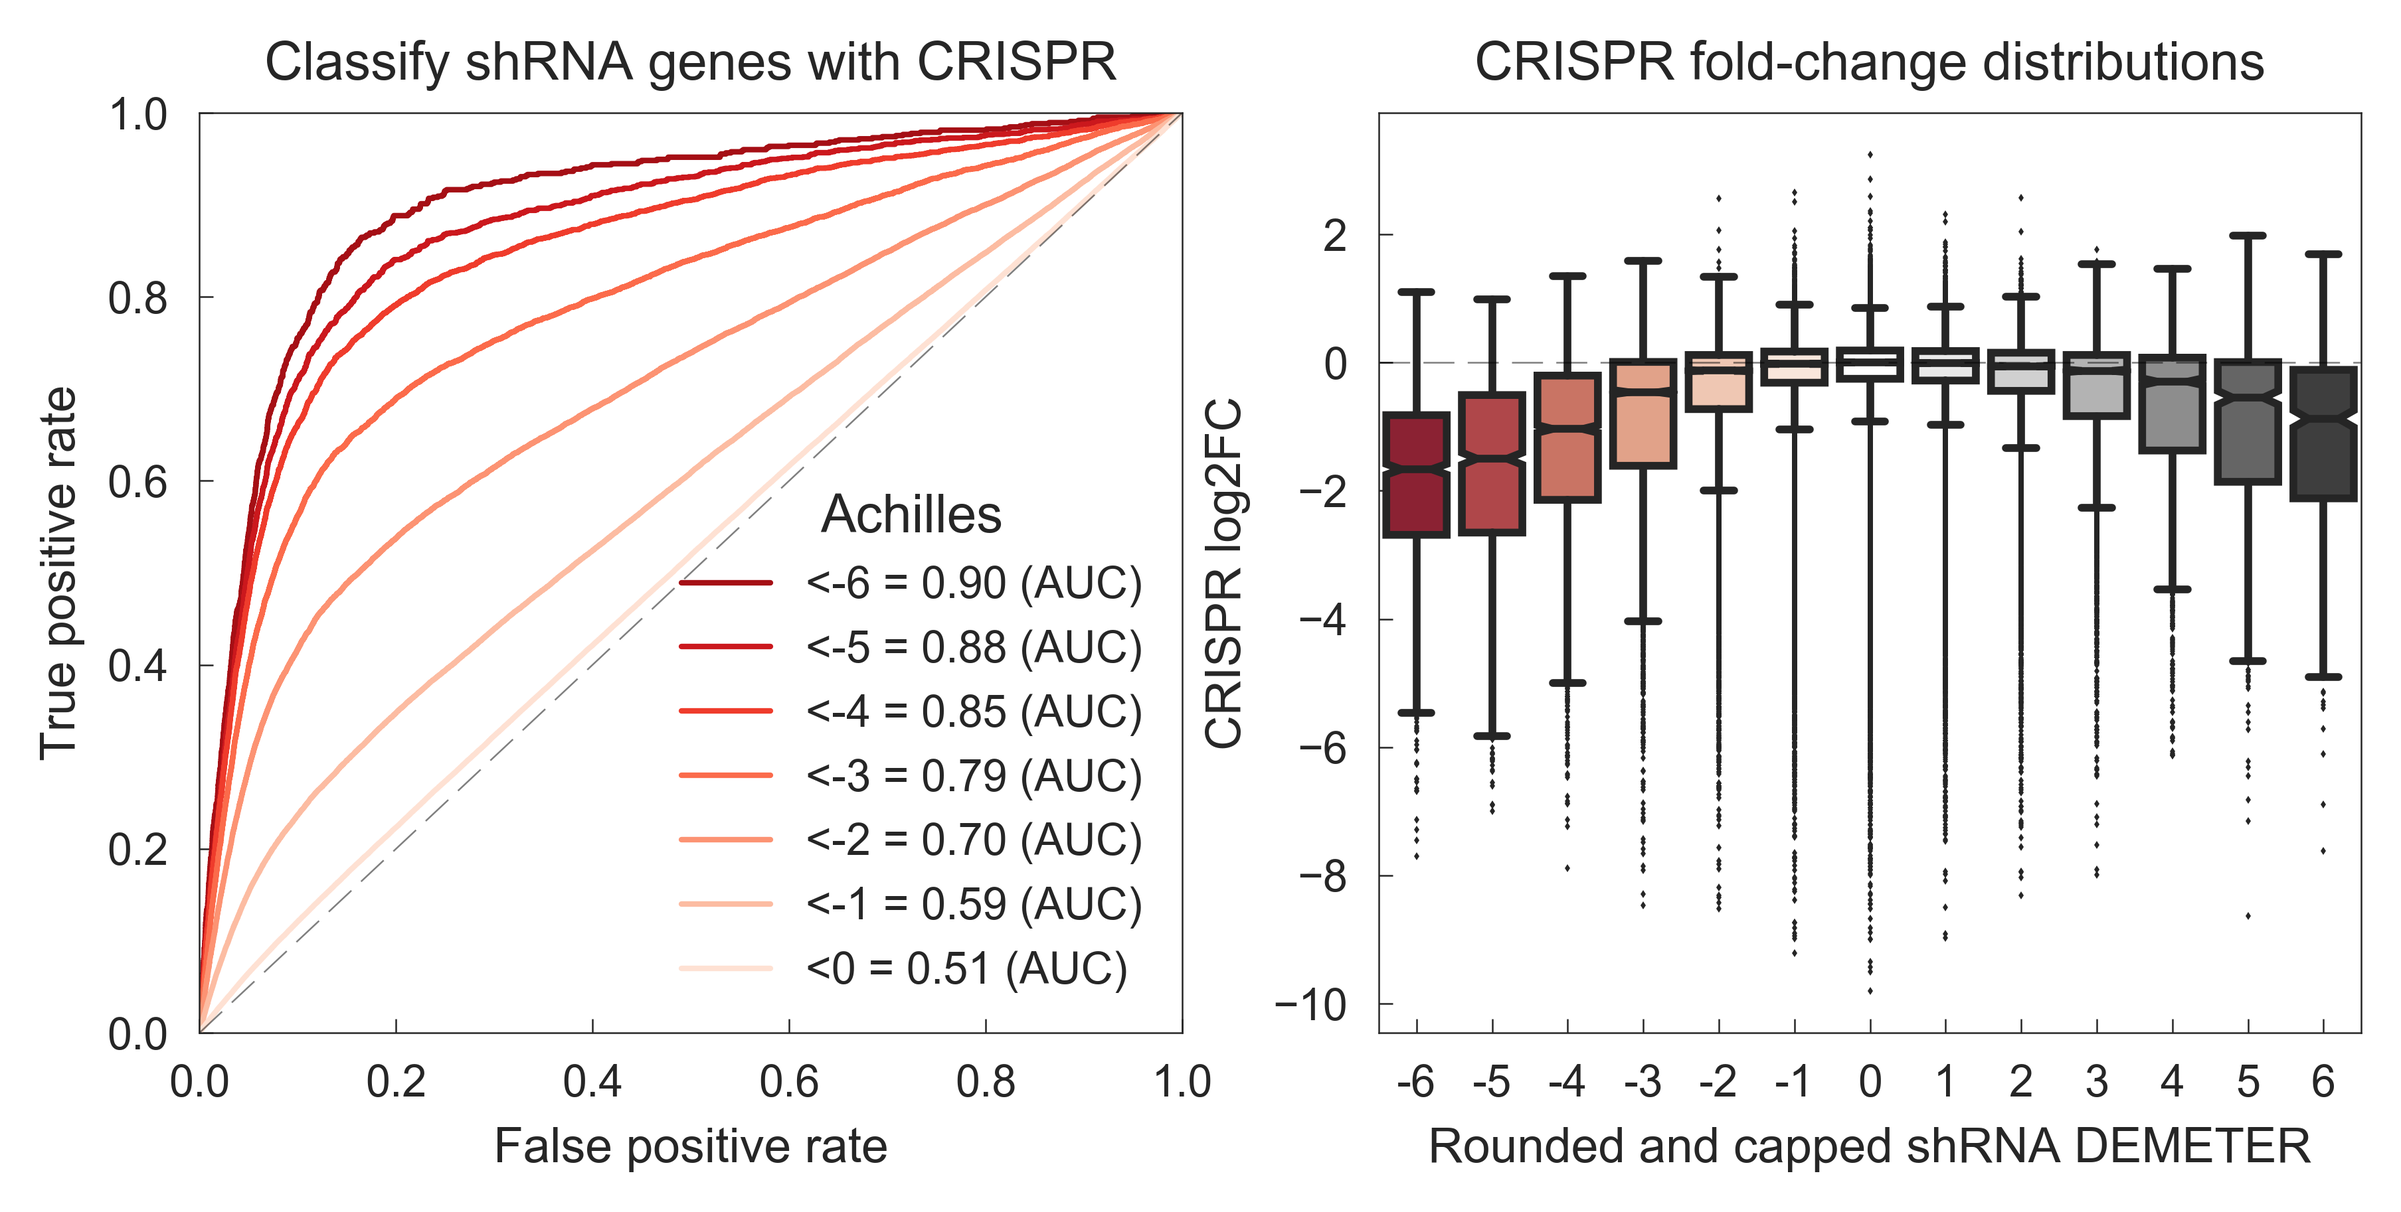
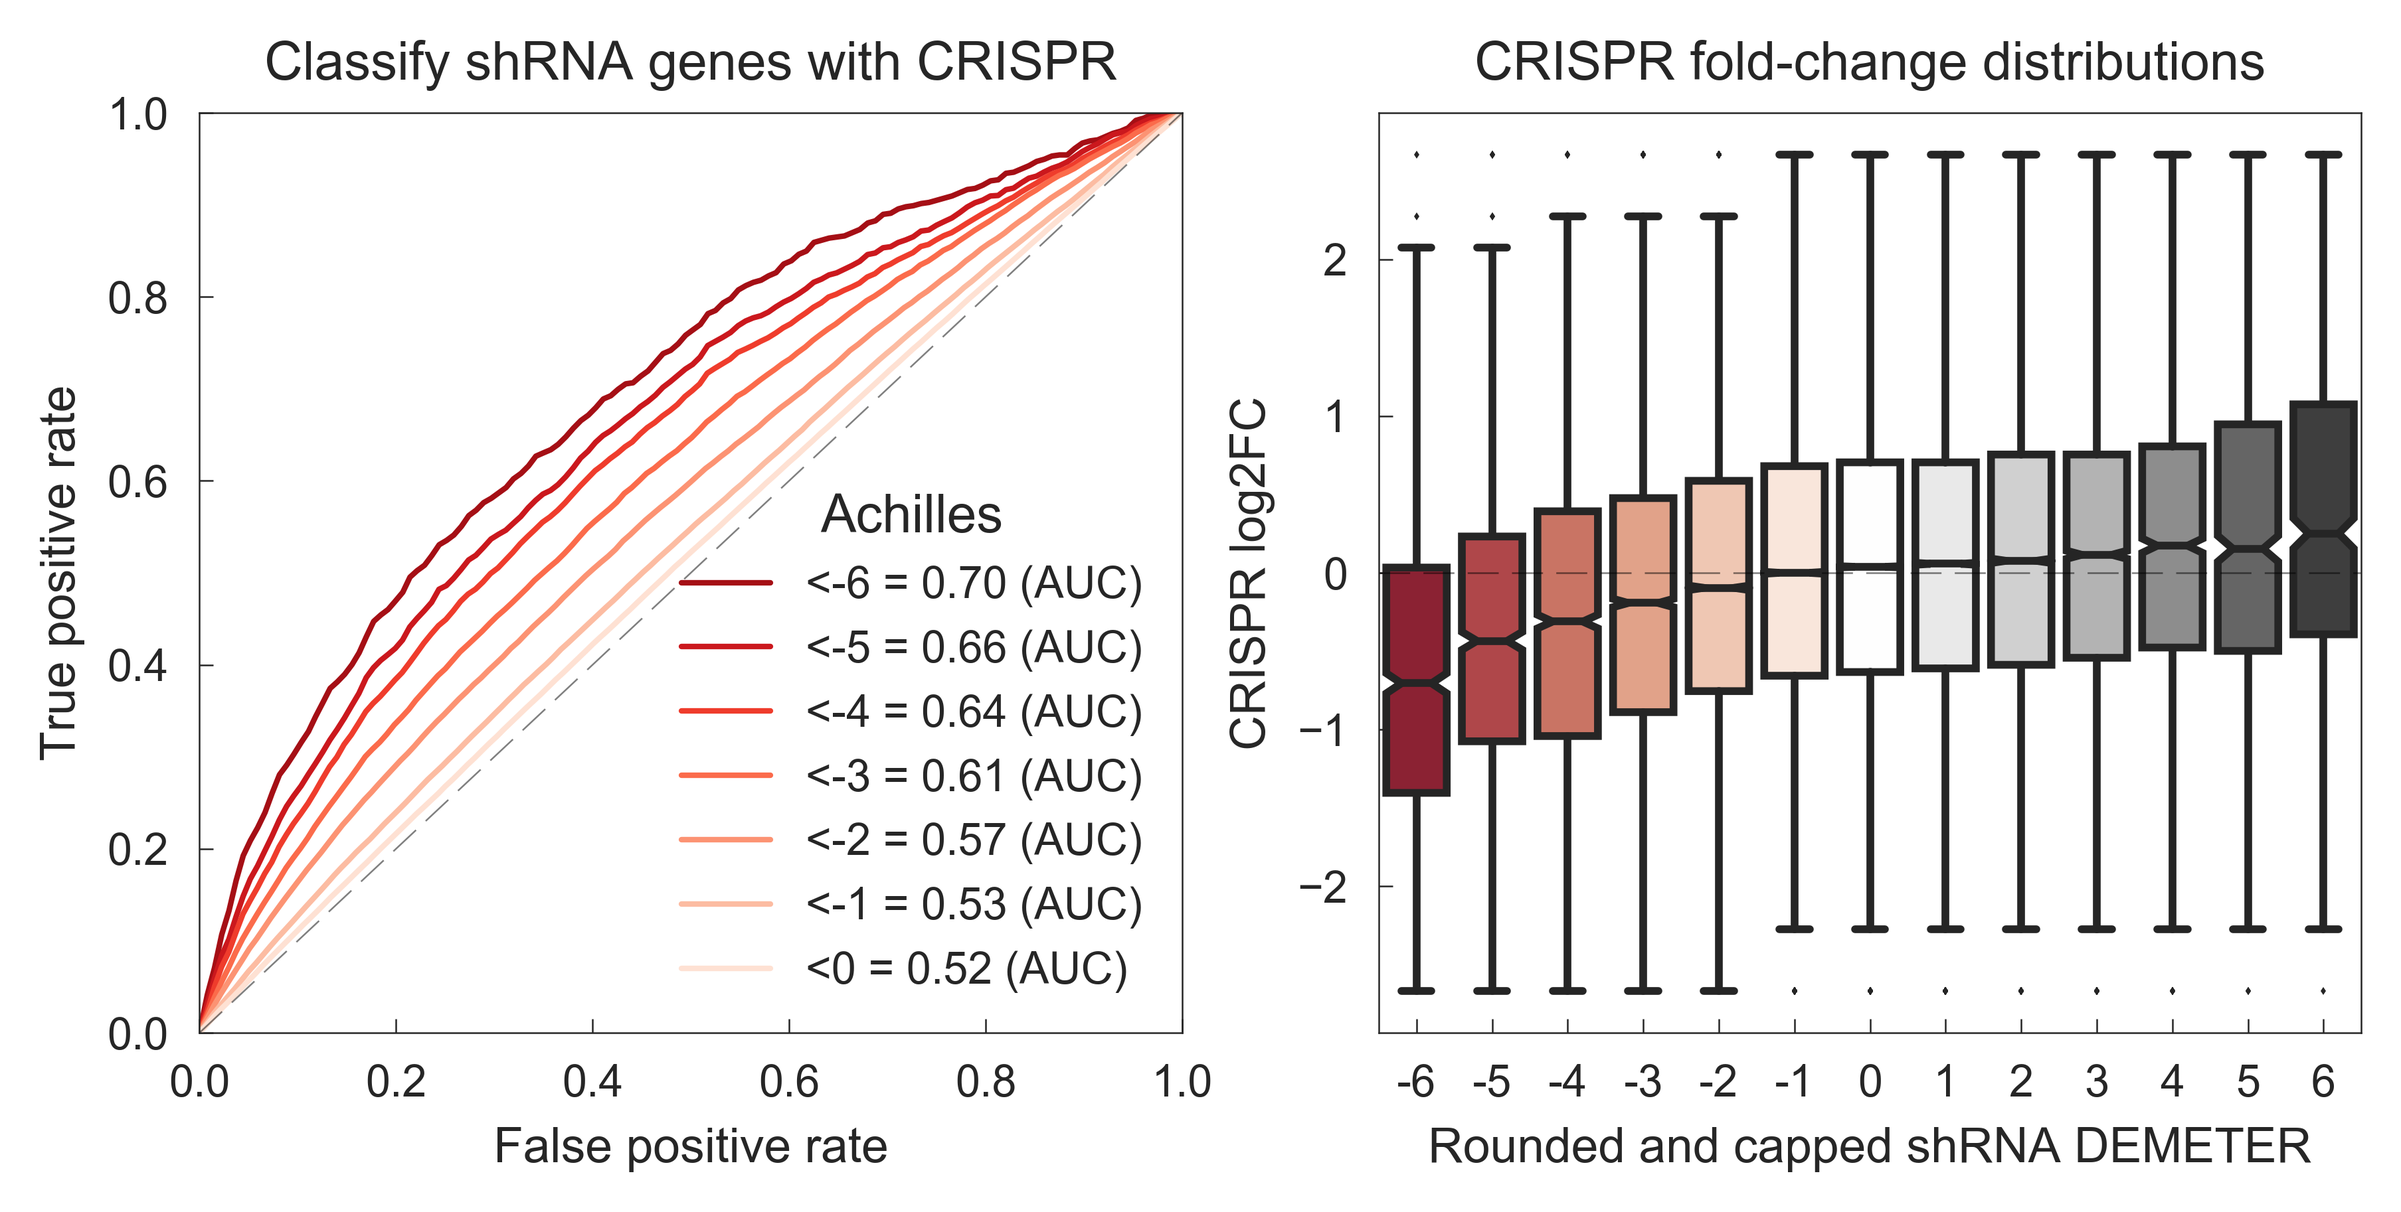
shRNA comparison benchmark performed

diff --git a/src/shrna_corr.py b/src/shrna_corr.py
@@ -5,10 +5,13 @@ import numpy as np
 import pandas as pd
 import seaborn as sns
 import matplotlib.pyplot as plt
-from scipy.stats.stats import pearsonr
+from scipy.stats.stats import pearsonr, zscore
 from sklearn.metrics import roc_curve, auc
-from matplotlib.gridspec import GridSpec
+from limix_core.util.preprocess import gaussianize
 
+
+# - Essential genes
+essential = list(pd.read_csv('data/resources/curated_BAGEL_essential.csv', sep='\t')['gene'])
 
 # - CCLE and GDSC overlapping
 cmap = pd.read_csv('data/ccle/CCLE_GDSC_cellLineMappoing.csv', index_col=2)
@@ -27,9 +30,56 @@ d_achilles = pd.read_csv('data/ccle/Achilles_v2.20.2_GeneSolutions.txt', sep='\t
 print('Project Achilles: ', d_achilles.shape)
 
 # - CRISPR
+# GDSC
 crispr = pd.read_csv('data/gdsc/crispr/crispy_fold_change.csv', index_col=0)
 crispr = crispr.groupby([i.split('_')[0].replace('sg', '') for i in crispr.index]).mean()
+
+crispr_n = crispr.groupby([i.split('_')[0].replace('sg', '') for i in crispr.index]).mean()
+crispr_n = pd.DataFrame(gaussianize(crispr_n.values.T).T, index=crispr_n.index, columns=crispr_n.columns)
+
+# crispr = pd.DataFrame(gaussianize(crispr.values.T).T, index=crispr.index, columns=crispr.columns)
+
+# crispr = pd.read_csv('data/gdsc/crispr/all_GLCFC.csv', index_col=0)
+# crispr = (crispr - crispr.unstack().mean()) / crispr.unstack().std()
+
+# crispr = pd.read_csv('data/gdsc/crispr/deseq_gene_fold_changes_mean.csv', index_col=0)
+# crispr = pd.DataFrame(gaussianize(crispr.values), index=crispr.index, columns=crispr.columns)
 print('CRISPR: ', crispr.shape)
+
+# Achilles
+c_achilles = pd.read_csv('data/ccle/Achilles_v3.3.8_genesoln.gct', sep='\t', index_col=0).drop('Description', axis=1)
+
+g_counts = pd.Series(dict(zip(*(np.unique([i.split('_')[0] for i in c_achilles.index], return_counts=True))))).sort_values()
+
+c_achilles = c_achilles[[g_counts.loc[i.split('_')[0]] == 1 for i in c_achilles.index]]
+c_achilles.index = [i.split('_')[0] for i in c_achilles.index]
+
+# c_achilles = pd.DataFrame(gaussianize(c_achilles.values), index=c_achilles.index, columns=c_achilles.columns)
+
+# c_achilles = pd.read_csv('data/ccle/Achilles_v3.3.8a.gct', sep='\t', index_col=0).drop('Description', axis=1)
+# c_achilles = pd.DataFrame(zscore(c_achilles), index=c_achilles.index, columns=c_achilles.columns)
+# c_achilles = c_achilles.groupby([i.split('_')[1] for i in c_achilles.index]).median()
+# c_achilles = pd.DataFrame(zscore(c_achilles.T).T, index=c_achilles.index, columns=c_achilles.columns)
+# c_achilles = pd.DataFrame(gaussianize(c_achilles.values), index=c_achilles.index, columns=c_achilles.columns)
+
+# c_achilles = pd.read_csv('data/ccle/Achilles_v3.3.8.gct', sep='\t', index_col=0).drop('Description', axis=1)
+# c_achilles = c_achilles.groupby([i.split('_')[1] for i in c_achilles.index]).median()
+
+
+# - Gene essential Achilles AROC
+samples = set([idx for idx, val in cmap['GDSC1000 name'].iteritems() if val in crispr.columns]).intersection(d_achilles)
+genes = set(crispr.index).intersection(d_achilles.index)
+print('Overlap: ', len(genes), len(samples))
+
+plot_df = pd.DataFrame({
+    'CRISPR': crispr.loc[genes, cmap.loc[samples, 'GDSC1000 name']].unstack(),
+    'CRISPR_n': crispr_n.loc[genes, cmap.loc[samples, 'GDSC1000 name']].unstack(),
+    'shRNA': d_achilles.loc[genes, samples].rename(columns=cmap.loc[samples, 'GDSC1000 name'].to_dict()).unstack()
+}).dropna()
+plot_df['shRNA_int'] = [round(i, 0) for i in plot_df['shRNA']]
+plot_df['shRNA_int'] = plot_df['shRNA_int'].clip(-6, 6).astype(int)
+plot_df['essential'] = [int(i in essential) for _, i in plot_df.index]
+print(plot_df.query('shRNA_int == 6').sort_values('CRISPR'))
 
 
 # - Overlap
@@ -97,6 +147,7 @@ plt.savefig('reports/shrna_crispr_corr_hist.png', bbox_inches='tight', dpi=600)
 plt.close('all')
 
 
+
 # - Gene essential Achilles AROC
 samples = set([idx for idx, val in cmap['GDSC1000 name'].iteritems() if val in crispr.columns]).intersection(d_achilles)
 genes = set(crispr.index).intersection(d_achilles.index)
@@ -143,14 +194,152 @@ plt.savefig('reports/shrna_crispr_achilles_agreement.png', bbox_inches='tight', 
 plt.close('all')
 
 
-# - Gene essential DRIVE AROC
-samples = set([idx for idx, val in cmap['GDSC1000 name'].iteritems() if val in crispr.columns]).intersection(d_drive_rsa)
-genes = set(crispr.index).intersection(d_drive_rsa.index)
+# # - Gene essential DRIVE AROC
+# samples = set([idx for idx, val in cmap['GDSC1000 name'].iteritems() if val in crispr.columns]).intersection(d_drive_rsa)
+# genes = set(crispr.index).intersection(d_drive_rsa.index)
+# print('Overlap: ', len(genes), len(samples))
+#
+# plot_df = pd.DataFrame({
+#     'CRISPR': crispr.loc[genes, cmap.loc[samples, 'GDSC1000 name']].unstack(),
+#     'shRNA': d_drive_rsa.loc[genes, samples].rename(columns=cmap.loc[samples, 'GDSC1000 name'].to_dict()).unstack()
+# }).dropna()
+# plot_df['shRNA_int'] = [round(i, 0) for i in plot_df['shRNA']]
+# plot_df['shRNA_int'] = plot_df['shRNA_int'].clip(-6, 6).astype(int)
+#
+# # Plot
+# sns.set(style='ticks', context='paper', rc={'axes.linewidth': .3, 'xtick.major.width': .3, 'ytick.major.width': .3, 'xtick.major.size': 2.5, 'ytick.major.size': 2.5, 'xtick.direction': 'in', 'ytick.direction': 'in'})
+# f, axs = plt.subplots(1, 2)
+#
+# # AROCs
+# ax = axs[0]
+#
+# thresholds = np.arange(-6, 0)
+# for c, thres in zip(sns.color_palette('Reds_r', len(thresholds)), thresholds):
+#     fpr, tpr, _ = roc_curve((plot_df['shRNA'] < thres).astype(int), -plot_df['CRISPR'])
+#     ax.plot(fpr, tpr, label='<%d = %.2f (AUC)' % (thres, auc(fpr, tpr)), lw=1., c=c)
+#
+# ax.plot((0, 1), (0, 1), 'k--', lw=.3, alpha=.5)
+# ax.set_xlim(0, 1)
+# ax.set_ylim(0, 1)
+# ax.set_xlabel('False positive rate')
+# ax.set_ylabel('True positive rate')
+# ax.set_title('Classify shRNA genes with CRISPR')
+# ax.legend(loc=4, title='DRIVE')
+#
+# # Boxplots
+# ax = axs[1]
+#
+# sns.boxplot('shRNA_int', 'CRISPR', data=plot_df, fliersize=1, palette='Reds_r', notch=True)
+# ax.axhline(0, ls='--', lw=.3, alpha=.5, c='black')
+# ax.set_xlabel('Rounded and capped shRNA RSA')
+# ax.set_ylabel('CRISPR log2FC')
+# ax.set_title('CRISPR fold-change distributions')
+#
+# plt.gcf().set_size_inches(7, 3)
+# plt.savefig('reports/shrna_crispr_drive_agreement.png', bbox_inches='tight', dpi=600)
+# plt.close('all')
+#
+#
+# # - Gene essential DRIVE AROC
+# samples = set([idx for idx, val in cmap['GDSC1000 name'].iteritems() if val in crispr.columns]).intersection(d_drive)
+# genes = set(crispr.index).intersection(d_drive.index)
+# print('Overlap: ', len(genes), len(samples))
+#
+# plot_df = pd.DataFrame({
+#     'CRISPR': crispr.loc[genes, cmap.loc[samples, 'GDSC1000 name']].unstack(),
+#     'shRNA': d_drive.loc[genes, samples].rename(columns=cmap.loc[samples, 'GDSC1000 name'].to_dict()).unstack()
+# }).dropna()
+# plot_df['shRNA_int'] = [round(i, 0) for i in plot_df['shRNA']]
+# plot_df['shRNA_int'] = plot_df['shRNA_int'].clip(-3, 3).astype(int)
+#
+# # Plot
+# sns.set(style='ticks', context='paper', rc={'axes.linewidth': .3, 'xtick.major.width': .3, 'ytick.major.width': .3, 'xtick.major.size': 2.5, 'ytick.major.size': 2.5, 'xtick.direction': 'in', 'ytick.direction': 'in'})
+# f, axs = plt.subplots(1, 2)
+#
+# # AROCs
+# ax = axs[0]
+#
+# thresholds = np.arange(-3, 0)
+# for c, thres in zip(sns.color_palette('Reds_r', len(thresholds)), thresholds):
+#     fpr, tpr, _ = roc_curve((plot_df['shRNA'] < thres).astype(int), -plot_df['CRISPR'])
+#     ax.plot(fpr, tpr, label='<%d = %.2f (AUC)' % (thres, auc(fpr, tpr)), lw=1., c=c)
+#
+# ax.plot((0, 1), (0, 1), 'k--', lw=.3, alpha=.5)
+# ax.set_xlim(0, 1)
+# ax.set_ylim(0, 1)
+# ax.set_xlabel('False positive rate')
+# ax.set_ylabel('True positive rate')
+# ax.set_title('Classify shRNA genes with CRISPR')
+# ax.legend(loc=4, title='DRIVE')
+#
+# # Boxplots
+# ax = axs[1]
+#
+# sns.boxplot('shRNA_int', 'CRISPR', data=plot_df, fliersize=1, palette='RdGy', notch=True)
+# ax.axhline(0, ls='--', lw=.3, alpha=.5, c='black')
+# ax.set_xlabel('Rounded and capped shRNA ATARIS')
+# ax.set_ylabel('CRISPR log2FC')
+# ax.set_title('CRISPR fold-change distributions')
+#
+# plt.gcf().set_size_inches(7, 3)
+# plt.savefig('reports/shrna_crispr_drive_ataris_agreement.png', bbox_inches='tight', dpi=600)
+# plt.close('all')
+#
+#
+# # - Gene essential Achilles CRISPR AROC
+# samples = set([idx for idx, val in cmap['GDSC1000 name'].iteritems() if val in crispr.columns]).intersection(c_achilles)
+# genes = set(crispr.index).intersection(c_achilles.index)
+# print('Overlap: ', len(genes), len(samples))
+#
+# plot_df = pd.DataFrame({
+#     'CRISPR': crispr.loc[genes, cmap.loc[samples, 'GDSC1000 name']].unstack(),
+#     'shRNA': c_achilles.loc[genes, samples].rename(columns=cmap.loc[samples, 'GDSC1000 name'].to_dict()).unstack()
+# }).dropna()
+# plot_df['shRNA_int'] = [round(i, 0) for i in plot_df['shRNA']]
+# plot_df['shRNA_int'] = plot_df['shRNA_int'].clip(-3, 3).astype(int)
+#
+# # Plot
+# sns.set(style='ticks', context='paper', rc={'axes.linewidth': .3, 'xtick.major.width': .3, 'ytick.major.width': .3, 'xtick.major.size': 2.5, 'ytick.major.size': 2.5, 'xtick.direction': 'in', 'ytick.direction': 'in'})
+# f, axs = plt.subplots(1, 2)
+#
+# # AROCs
+# ax = axs[0]
+#
+# thresholds = np.arange(-3, 0)
+# for c, thres in zip(sns.color_palette('Reds_r', len(thresholds)), thresholds):
+#     fpr, tpr, _ = roc_curve((plot_df['shRNA'] < thres).astype(int), -plot_df['CRISPR'])
+#     ax.plot(fpr, tpr, label='<%d = %.2f (AUC)' % (thres, auc(fpr, tpr)), lw=1., c=c)
+#
+# ax.plot((0, 1), (0, 1), 'k--', lw=.3, alpha=.5)
+# ax.set_xlim(0, 1)
+# ax.set_ylim(0, 1)
+# ax.set_xlabel('False positive rate')
+# ax.set_ylabel('True positive rate')
+# ax.set_title('Classify CRISPR genes with CRISPR')
+# ax.legend(loc=4, title='Achilles')
+#
+# # Boxplots
+# ax = axs[1]
+#
+# sns.boxplot('shRNA_int', 'CRISPR', data=plot_df, fliersize=1, palette='RdGy', notch=True)
+# ax.axhline(0, ls='--', lw=.3, alpha=.5, c='black')
+# ax.set_xlabel('Rounded and capped sgRNA ATARIS')
+# ax.set_ylabel('CRISPR log2FC')
+# ax.set_title('CRISPR fold-change distributions')
+#
+# plt.gcf().set_size_inches(7, 3)
+# plt.savefig('reports/shrna_crispr_achilles_crispr_agreement.png', bbox_inches='tight', dpi=600)
+# plt.close('all')
+
+
+# - Gene essential Achilles AROC
+samples = set(c_achilles).intersection(d_achilles)
+genes = set(c_achilles.index).intersection(d_achilles.index)
 print('Overlap: ', len(genes), len(samples))
 
 plot_df = pd.DataFrame({
-    'CRISPR': crispr.loc[genes, cmap.loc[samples, 'GDSC1000 name']].unstack(),
-    'shRNA': d_drive_rsa.loc[genes, samples].rename(columns=cmap.loc[samples, 'GDSC1000 name'].to_dict()).unstack()
+    'CRISPR': c_achilles.loc[genes, samples].unstack(),
+    'shRNA': d_achilles.loc[genes, samples].unstack()
 }).dropna()
 plot_df['shRNA_int'] = [round(i, 0) for i in plot_df['shRNA']]
 plot_df['shRNA_int'] = plot_df['shRNA_int'].clip(-6, 6).astype(int)
@@ -162,7 +351,7 @@ f, axs = plt.subplots(1, 2)
 # AROCs
 ax = axs[0]
 
-thresholds = np.arange(-6, 0)
+thresholds = np.arange(-6, 1)
 for c, thres in zip(sns.color_palette('Reds_r', len(thresholds)), thresholds):
     fpr, tpr, _ = roc_curve((plot_df['shRNA'] < thres).astype(int), -plot_df['CRISPR'])
     ax.plot(fpr, tpr, label='<%d = %.2f (AUC)' % (thres, auc(fpr, tpr)), lw=1., c=c)
@@ -172,18 +361,44 @@ ax.set_xlim(0, 1)
 ax.set_ylim(0, 1)
 ax.set_xlabel('False positive rate')
 ax.set_ylabel('True positive rate')
-ax.set_title('Classify shRNA genes with CRISPR')
-ax.legend(loc=4, title='DRIVE')
+ax.set_title('Classify shRNA genes with CRISPR (all Achilles)')
+ax.legend(loc=4, title='Achilles')
 
 # Boxplots
 ax = axs[1]
 
-sns.boxplot('shRNA_int', 'CRISPR', data=plot_df, fliersize=1, palette='Reds_r', notch=True)
+sns.boxplot('shRNA_int', 'CRISPR', data=plot_df, fliersize=1, palette='RdGy', notch=True)
 ax.axhline(0, ls='--', lw=.3, alpha=.5, c='black')
-ax.set_xlabel('Rounded and capped shRNA RSA')
-ax.set_ylabel('CRISPR log2FC')
+ax.set_xlabel('Rounded and capped shRNA DEMETER')
+ax.set_ylabel('CRISPR ATARIS distribution')
 ax.set_title('CRISPR fold-change distributions')
 
 plt.gcf().set_size_inches(7, 3)
-plt.savefig('reports/shrna_crispr_drive_agreement.png', bbox_inches='tight', dpi=600)
+plt.savefig('reports/shrna_all_achilles_agreement.png', bbox_inches='tight', dpi=600)
+plt.close('all')
+
+
+# -
+samples = set([idx for idx, val in cmap['GDSC1000 name'].iteritems() if val in crispr.columns]).intersection(c_achilles)
+genes = set(crispr.index).intersection(c_achilles.index)
+print('Overlap: ', len(genes), len(samples))
+
+plot_df = pd.DataFrame({
+    'CRISPR_GDSC': crispr.loc[genes, cmap.loc[samples, 'GDSC1000 name']].unstack(),
+    'CRISPR_Achilles': c_achilles.loc[genes, samples].rename(columns=cmap.loc[samples, 'GDSC1000 name'].to_dict()).unstack()
+}).dropna()
+
+plot_df = pd.concat([
+    plot_df[['CRISPR_GDSC']].assign(type='CRISPR_GDSC').rename(columns={'CRISPR_GDSC': 'value'}),
+    plot_df[['CRISPR_Achilles']].assign(type='CRISPR_Achilles').rename(columns={'CRISPR_Achilles': 'value'})
+])
+
+plot_df['essential'] = [int(g in essential) for c, g in plot_df.index]
+
+sns.set(style='ticks', context='paper', rc={'axes.linewidth': .3, 'xtick.major.width': .3, 'ytick.major.width': .3, 'xtick.major.size': 2.5, 'ytick.major.size': 2.5, 'xtick.direction': 'in', 'ytick.direction': 'in'})
+g = sns.boxplot('type', 'value', 'essential', data=plot_df, palette='RdGy', fliersize=1, linewidth=.3, notch=True)
+plt.xlabel('')
+plt.setp(g.get_xticklabels(), rotation=70)
+plt.gcf().set_size_inches(1, 3)
+plt.savefig('reports/essential_boxplots.png', bbox_inches='tight', dpi=600)
 plt.close('all')

diff --git a/src/crispy_fold_change.py b/src/crispy_fold_change.py
@@ -3,20 +3,57 @@
 
 import numpy as np
 import pandas as pd
+import seaborn as sns
 import scipy.stats as st
+import matplotlib.pyplot as plt
 from datetime import datetime as dt
+from sklearn.linear_model.base import LinearRegression
 
 # - Imports
-# Samplesheet
-ss = pd.read_csv('data/gdsc/crispr/crispr_raw_counts_files_vFB.csv', sep=',', index_col=0).query("to_use == 'Yes'")
+# Essential genes
+essential = list(pd.read_csv('data/resources/curated_BAGEL_essential.csv', sep='\t')['gene'])
+
+# sgRNA library
+sgrna_lib = pd.read_csv('data/gdsc/crispr/KY_Library_v1.1_annotated.csv', index_col=0).dropna(subset=['STARTpos'])
 
 # Manifest
 manifest = pd.read_csv('data/gdsc/crispr/manifest.txt', sep='\t')
 manifest['CGaP_Sample_Name'] = [i.split('_')[0] for i in manifest['CGaP_Sample_Name']]
 manifest = manifest.groupby('CGaP_Sample_Name')['Cell_Line_Name'].first()
 
+# Cell lines samplesheet
+css = pd.read_csv('data/gdsc/samplesheet.csv', index_col=0)
+
+# Samplesheet
+ss = pd.read_csv('data/gdsc/crispr/crispr_raw_counts_files_vFB.csv', sep=',', index_col=0).query("to_use == 'Yes'")
+ss = ss.assign(name=list(manifest.loc[[i.split('_')[0] for i in ss.index]]))
+ss = ss.assign(tissue=list(css.loc[ss['name'], 'GDSC1'].replace(np.nan, 'other')))
+
 # sgRNA library
 sgrna_lib = pd.read_csv('data/gdsc/crispr/KY_Library_v1.1_annotated.csv', index_col=0).dropna(subset=['STARTpos'])
+
+# Controls
+controls = set(ss['control'])
+
+
+# - Controls read counts histogram
+df_controls = pd.concat([
+    pd.read_csv('data/gdsc/crispr/raw_counts/%s' % f, sep='\t', index_col=0).drop(['gene'], axis=1)[s] for s, f in ss.reset_index().groupby('control')['file'].first().items()
+], axis=1).dropna()
+
+sns.set(style='ticks', context='paper', rc={'axes.linewidth': .3, 'xtick.major.width': .3, 'ytick.major.width': .3, 'xtick.major.size': 2.5, 'ytick.major.size': 2.5, 'xtick.direction': 'in', 'ytick.direction': 'in'})
+(f, axs), pos = plt.subplots(1, 2), 0
+
+for s, c in zip(*(controls, ['#37454B', '#F2C500'])):
+    sns.distplot(df_controls[s].dropna(), kde=False, bins=30, color=c, label=s, ax=axs[pos])
+    axs[pos].set_xlabel('Read counts')
+    axs[pos].set_ylabel('Counts')
+    axs[pos].set_title('%s (%d samples)' % (s, ss['control'].value_counts()[s]))
+    pos += 1
+
+plt.gcf().set_size_inches(8, 2)
+plt.savefig('reports/controls_counts_histogram.png', bbox_inches='tight', dpi=600)
+plt.close('all')
 
 
 # -
@@ -51,18 +88,20 @@ for c_sample in manifest.index:
     c_counts = np.log2(c_counts)
 
     # Calculate fold-changes
-    c_control = [i for i in c_counts if i in ['ERS717283.plasmid', 'CRISPR_C6596666.sample']][0]
+    c_control = [i for i in c_counts if i in controls][0]
     c_counts = c_counts.subtract(c_counts[c_control], axis=0).drop(c_control, axis=1)
 
+    # Zscore
+    c_counts = pd.DataFrame(st.zscore(c_counts), index=c_counts.index, columns=c_counts.columns)
+
     # Average fold-changes
-    c_counts = c_counts.median(1)
+    c_counts = c_counts.mean(1)
 
     # Store
     fold_changes[manifest[c_sample]] = c_counts
 
 fold_changes = pd.DataFrame(fold_changes)
 print(fold_changes.shape)
-
 
 # - Export
 fold_changes.to_csv('data/gdsc/crispr/crispy_fold_change.csv')
